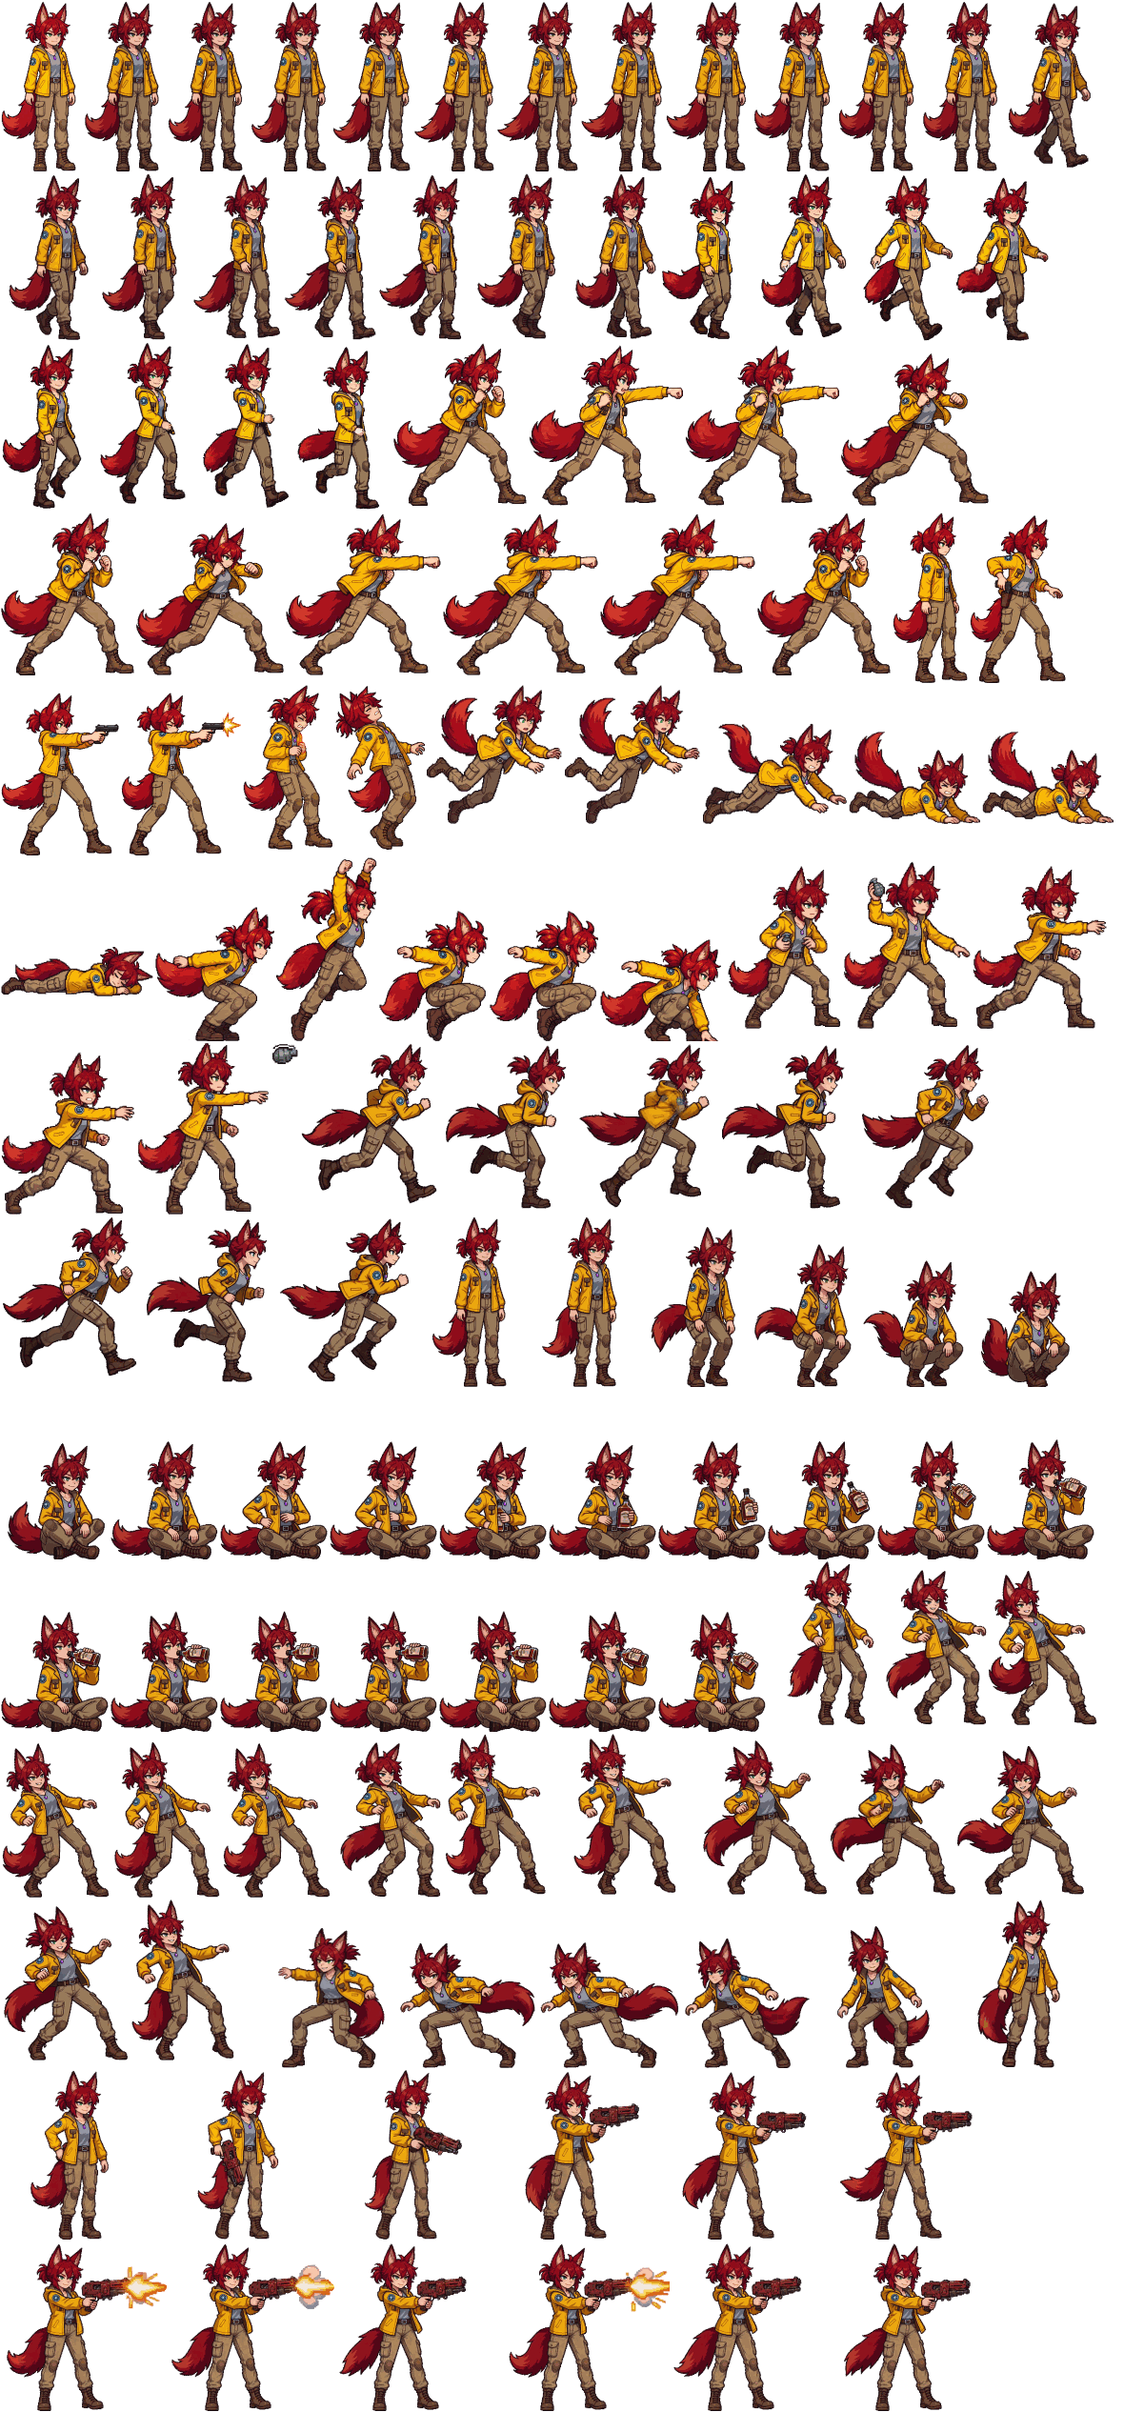
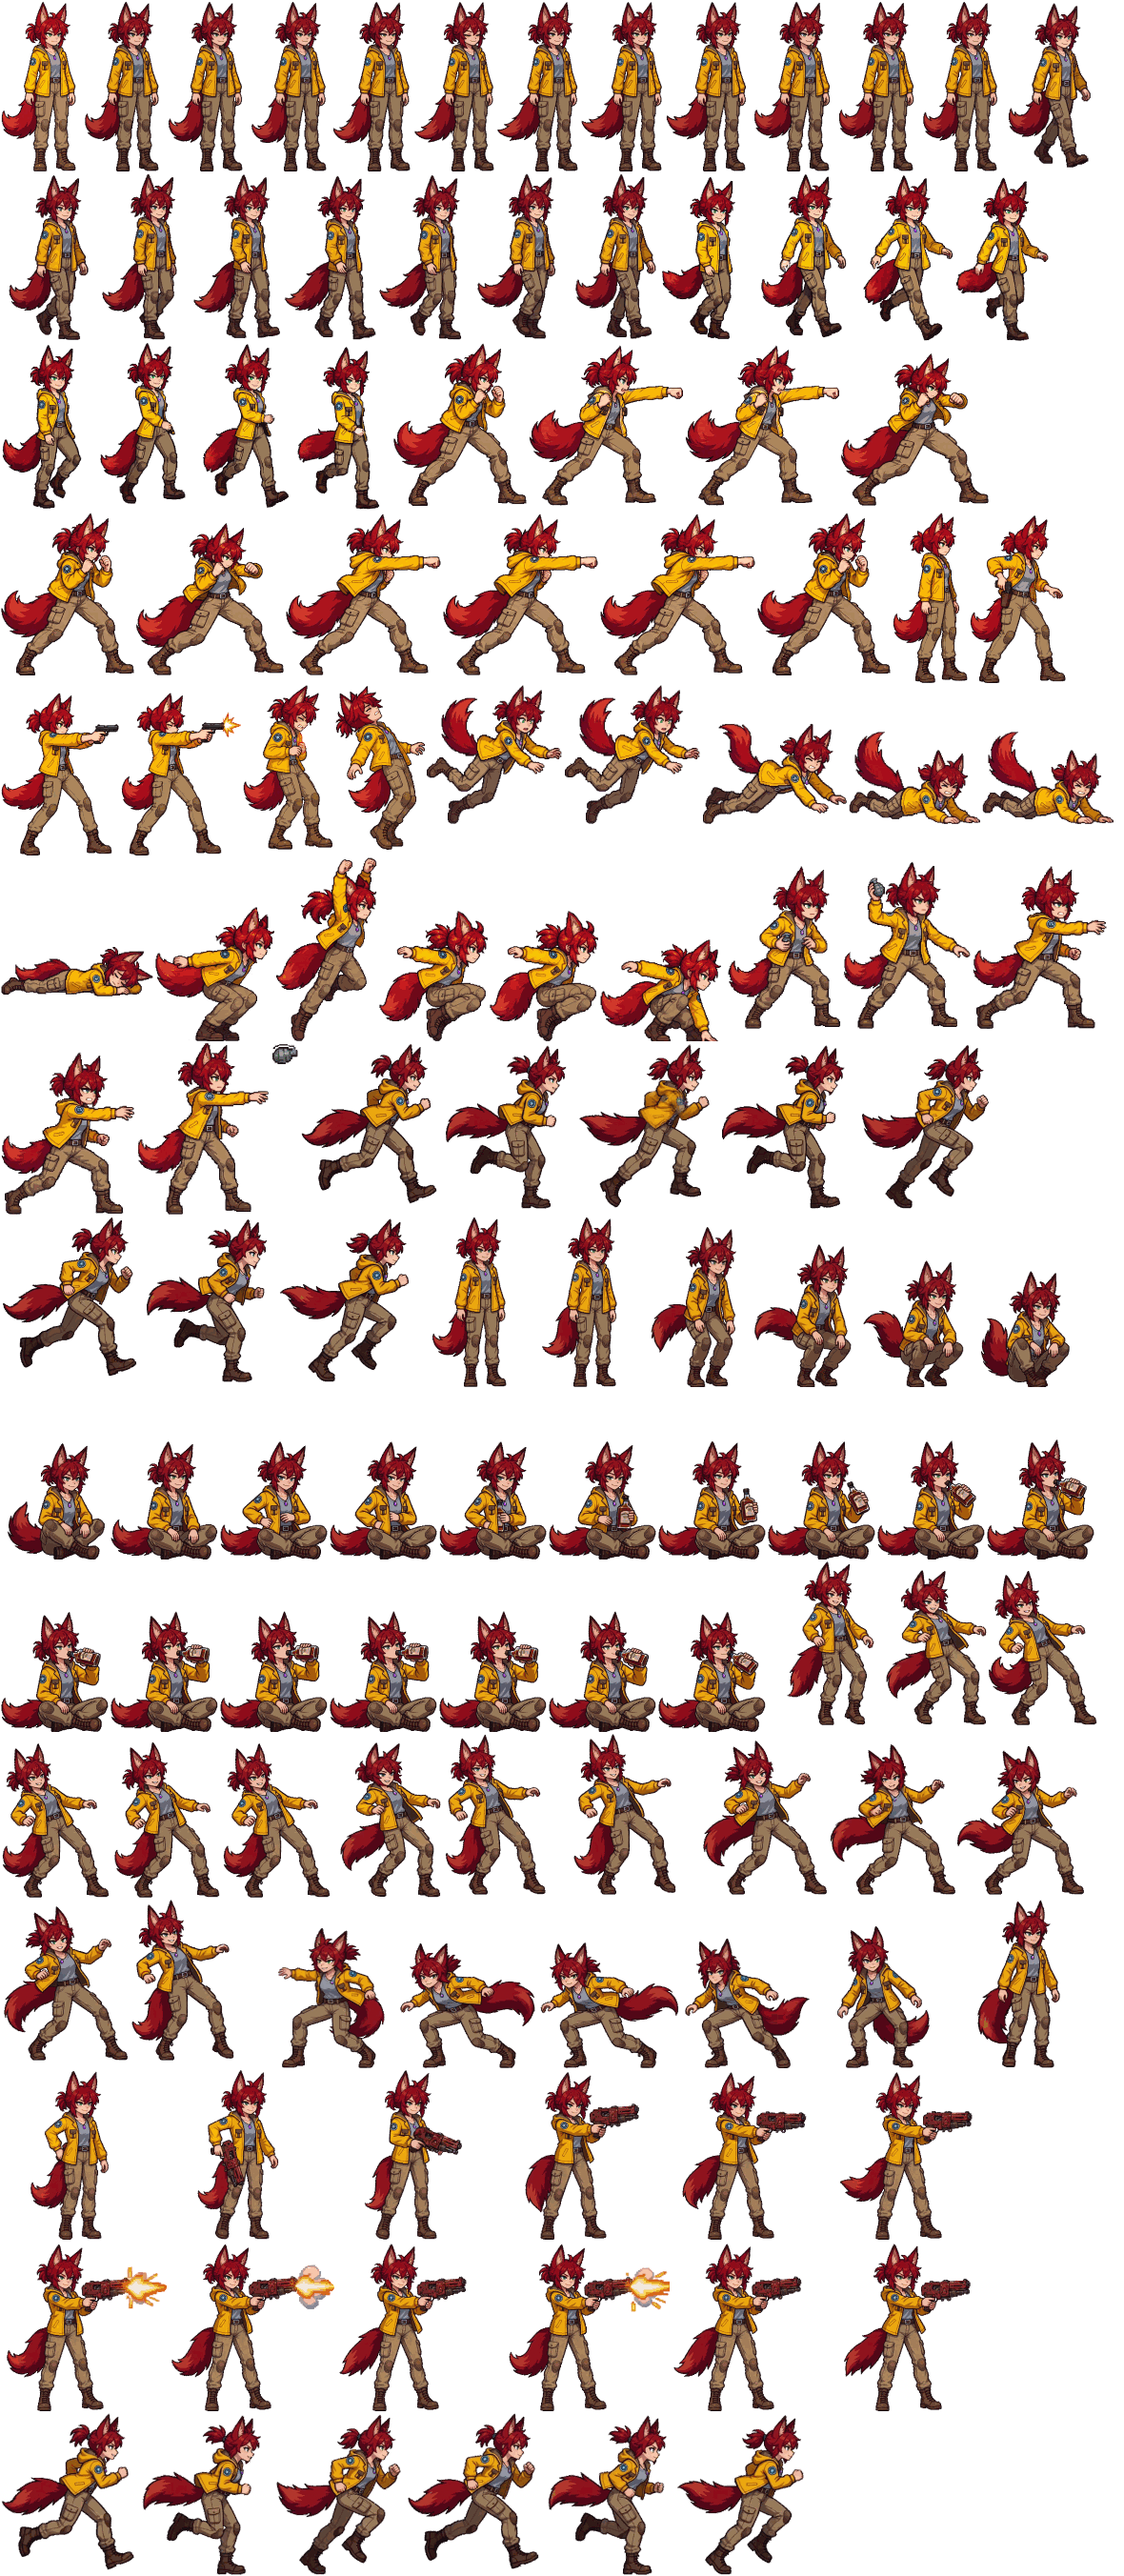
Lucy: her run from six drawn figures, lined up by the head; the video run stays as run2
Claude-Session: https://claude.ai/code/session_01QGxdLhKA2G8rMSxu9wSSuC

diff --git a/src/lucy-frames.js b/src/lucy-frames.js
@@ -82,7 +82,7 @@ export const FR = {
     [144, 1095, 139, 180, 75.0, 180.0],
   ],
   nade: [[285, 1095, 28, 23, 14.0, 23.0]],
-  run: [
+  run2: [
     [315, 1095, 144, 174, 86.0, 174.0],
     [461, 1095, 144, 174, 86.0, 174.0],
     [607, 1095, 144, 174, 86.0, 174.0],
@@ -156,5 +156,13 @@ export const FR = {
     [529, 2353, 174, 178, 83.0, 178.0],
     [705, 2353, 174, 178, 83.0, 178.0],
     [881, 2353, 174, 178, 83.0, 178.0],
+  ],
+  run: [
+    [1, 2533, 140, 170, 81.0, 170.0],
+    [143, 2533, 140, 170, 81.0, 170.0],
+    [285, 2533, 140, 170, 81.0, 170.0],
+    [427, 2533, 140, 170, 81.0, 170.0],
+    [569, 2533, 140, 170, 81.0, 170.0],
+    [711, 2533, 140, 170, 81.0, 170.0],
   ],
 };

diff --git a/tests/world.test.js b/tests/world.test.js
@@ -382,7 +382,8 @@ test('Lucy: her new run, a dodge now and then, her big gun for the super, and a 
   const { FIGHTER_ANIM, LUCK } = await import('../src/config.js');
   const { newRun } = await import('../src/replay.js');
   const { hitPlayer } = await import('../src/combat.js');
-  assert.equal(FR.run.length, 8, 'the new run');
+  assert.equal(FR.run.length, 6, 'her drawn run');
+  assert.equal(FR.run2.length, 8, 'her second run is kept too');
   assert.equal(FR.run1.length, 8, 'the first run is kept in the atlas');
   assert.deepEqual([FR.evade1.length, FR.evade2.length, FR.evade3.length], [7, 7, 6]);
   assert.equal(FR.super.length, 12);

diff --git a/src/config.js b/src/config.js
@@ -613,7 +613,7 @@ export const FIGHTER_ANIM = {
   lucy: {
     idle: [6, 5, 6, 6, 5, 6, 5, 6, 6, 5, 6],
     walk: [0.1, 8],
-    run: [0.07, 8],
+    run: [0.1, 6],
     // the win: `intro` frames of sitting down and taking out the bottle (`t` seconds each),
     // then the last `loop` frames back and forth (`lt` each): she drinks on and on
     drink: { intro: 16, t: 0.09, loop: 7, lt: 0.13 },

diff --git a/tools/lucy_sheet.py b/tools/lucy_sheet.py
@@ -43,7 +43,8 @@ ANIMS = {
     "idle": ("idle.mp4", loop(58, 120, 11)),  # 62 frames, 2.6 s
     "walk": ("walk.mp4", loop(27, 51, 8)),  # 24 frames, 1 s
     "run1": ("run.mp4", loop(77, 101, 8)),  # her first run: 24 frames, 1 s (kept, not used)
-    "run": ("run_2.mp4", loop(66, 85, 8)),  # her run: one stride, 19 frames (she sets off first)
+    # her second run, kept but not used: one stride of 19 frames (she sets off first)
+    "run2": ("run_2.mp4", loop(66, 85, 8)),
 }
 # Videos that start with her standing still, each scaled by that first frame, and their rows
 # lined up by it: its boots are the anchor and its ground the row's bottom (she sits, ducks and
@@ -68,8 +69,16 @@ DRINK_LOOP = 7
 REF_ROWS = {"drink", "evade1", "evade2", "evade3", "super"}
 ROWS = [
     "stand", "idle", "walk", "run1", "punch1", "punch2", "throw", "hurt", "ko", "jump",
-    "grenade", "nade", "run", "drink", "evade1", "evade2", "evade3", "super",
+    "grenade", "nade", "run2", "drink", "evade1", "evade2", "evade3", "super", "run",
 ]
+# her run: the six drawn figures of run_3.png (on a see-through background), left to right;
+# boxes are (x0, x1) across the picture, above the next row's ears. They are lined up by the
+# head (it barely moves in a run; the sleeves swing, so the jacket would not do): each figure
+# is moved sideways onto the third one's head. Each keeps its own height above the ground, so
+# she bobs a little. RUN_TALL is her height running, as tall as her runs from the videos.
+RUN3 = [(2, 255), (266, 494), (1010, 1254), (1257, 1502), (1514, 1742), (1754, 1998)]
+RUN3_Y = 334
+RUN_TALL = 348
 # the pistol shot (the game's "throw" slot, K): the four panels of shoot.png, left to right
 PANELS = [(0, 347), (353, 767), (772, 1205), (1210, 1680)]
 # rows whose frames come from separate pictures: each frame its own window and anchor
@@ -337,6 +346,39 @@ def build_rows():
         img = Image.open(SRC / "grenade.png").convert("RGB")
         return [scaled(cut(img.crop(NADE)), memo["s_nade"] * NADE_SIZE)]
 
+    def drawn_run():
+        img = np.array(Image.open(SRC / "run_3.png").convert("RGBA"))
+        crops = []
+        for x0, x1 in RUN3:
+            c = img[:RUN3_Y, x0:x1].copy()
+            c[..., 3] = np.where(c[..., 3] < 10, 0, c[..., 3])
+            crops.append(c)
+        # all on canvases of one width, so they can be lined up
+        w = max(c.shape[1] for c in crops) + 80
+        crops = [np.pad(c, ((0, 0), (40, w - 40 - c.shape[1]), (0, 0))) for c in crops]
+
+        def head(c):
+            ys = np.where(c[..., 3].any(1))[0]
+            return c[ys.min() : ys.min() + int((ys.max() - ys.min()) * 0.3)]
+
+        def premul(a):
+            a = a.astype(float)
+            return a[..., :3] * a[..., 3:] / 255
+
+        ref = head(crops[2])
+
+        def shift(c):
+            hd = head(c)
+            n = min(hd.shape[0], ref.shape[0])
+            return min(
+                range(-40, 41),
+                key=lambda dx: np.abs(premul(ref[:n, 45:-45]) - premul(np.roll(hd, dx, 1)[:n, 45:-45])).mean(),
+            )
+
+        crops = [np.roll(c, shift(c), 1) for c in crops]
+        tall = max(RUN3_Y - np.where(c[..., 3].any(1))[0].min() for c in crops)
+        return [scaled(c, RUN_TALL / tall) for c in crops]
+
     hit = lambda: Image.open(SRC / "hit1.png").convert("RGB")  # noqa: E731
     return {
         "stand": lambda: [scaled(once("stand", stand_cut), s_st())],
@@ -348,6 +390,7 @@ def build_rows():
         "punch2": lambda: [once("strikes", strikes)[k] for k in PUNCH2],
         "jump": lambda: [once("jumps", jumps)[k] for k in JUMPS],
         "grenade": lambda: [once("throws", throws)[k] for k in NADE_FRAMES],
+        "run": drawn_run,
         "nade": nade,
     }
 

diff --git a/README.md b/README.md
@@ -566,11 +566,13 @@ cut with one window, so they keep their places from the video and do not jitter.
 kept but not used; 8 frames over a 1 s loop of walk.mp4 and run.mp4; the video frames are in
 `ANIMS`), and from the videos that start with her standing still (each scaled by that first
 frame, which also lines the row up: its boots are the anchor and its ground the bottom,
-`REF_VIDEOS`): `run` (8 frames over one stride of run_2.mp4, after she sets off), `drink` (the
+`REF_VIDEOS`): `run2` (her second run, kept but not used: 8 frames over one stride of run_2.mp4, after she sets off), `drink` (the
 win, drink.mp4: 16 frames of sitting down and taking out the bottle, then the last 7, drunk from
 back and forth, `DRINK_LOOP` and `FIGHTER_ANIM.lucy.drink`), `evade1`, `evade2` and `evade3`
 (three dodges from evade.mp4, without its explosions) and `super` (super_gun.mp4: six frames of
-drawing the gun, six of firing), `punch1` and `punch2`
+drawing the gun, six of firing), and her run, `run`: the six drawn figures of run_3.png (`RUN3`), lined
+up by the head (it barely moves in a run, while the sleeves swing), each at its own height above
+the ground, so she bobs a little; 0.1 s a frame (`FIGHTER_ANIM.lucy.run`), `punch1` and `punch2`
 (the four panels of strike_2.png, guard, jab, fist back, cross, as two punches of five frames,
 `PUNCH1` and `PUNCH2`), `jump` (the four figures of jump.png as the five jump frames, `JUMPS`;
 the drawn ground shadows, dust and motion lines are taken off by `strip_marks`), `throw` (the four panels of shoot.png: side on, drawing,
